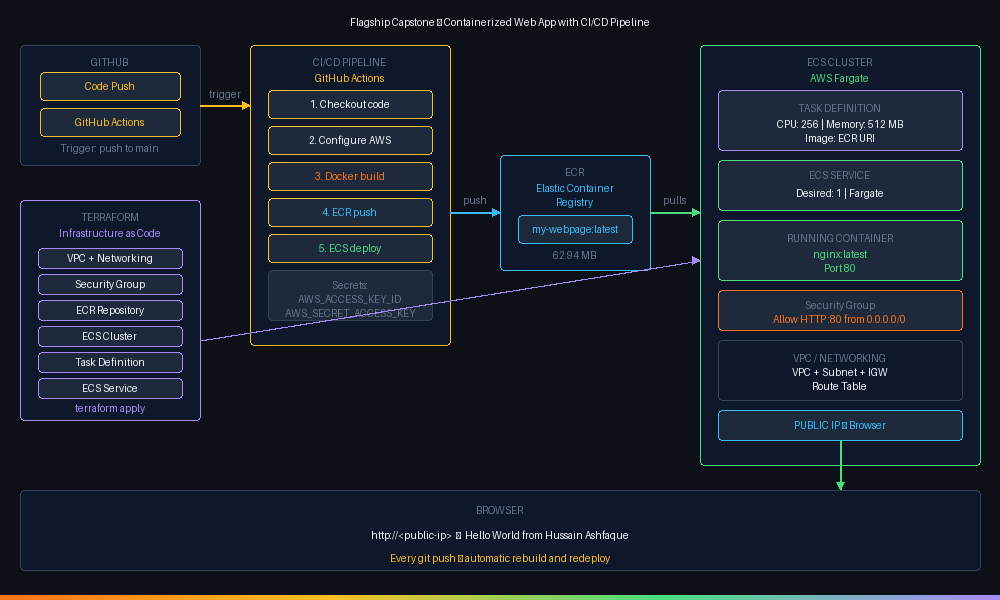
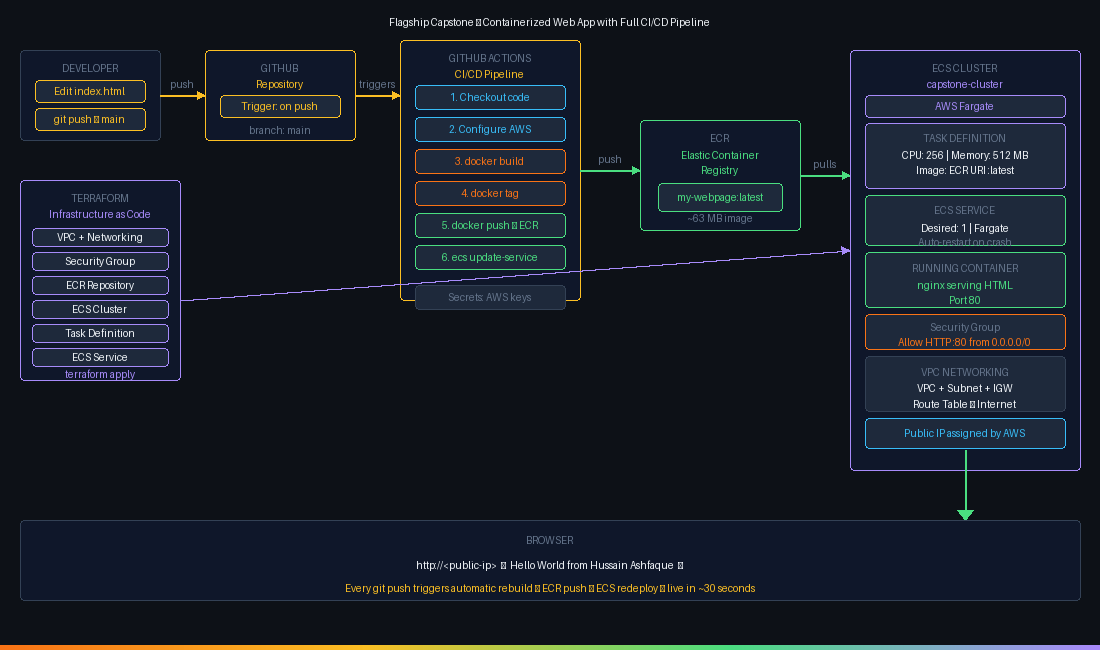
Update README and architecture diagram

diff --git a/README.md b/README.md
@@ -1,8 +1,8 @@
-# Flagship Capstone — Containerized Web App with CI/CD Pipeline
+# Flagship Capstone — Containerized Web App with Full CI/CD Pipeline
 
 ## Overview
 
-A production-style deployment pipeline combining Terraform, Docker, ECR, ECS Fargate, and GitHub Actions. Every push to the main branch automatically builds, pushes, and redeploys the containerized web app on AWS — no manual steps required.
+A production-style deployment pipeline combining Terraform, Docker, ECR, ECS Fargate, and GitHub Actions. Every push to the `main` branch automatically builds a new Docker image, pushes it to ECR, and redeploys it on AWS ECS — no manual steps required.
 
 ---
 
@@ -12,14 +12,26 @@ A production-style deployment pipeline combining Terraform, Docker, ECR, ECS Far
 
 ---
 
-## What This Project Does
+## How It Works
 
-1. Developer pushes code to GitHub
-2. GitHub Actions automatically:
-   - Builds a new Docker image
-   - Pushes it to Amazon ECR
-   - Forces ECS to redeploy with the new image
-3. The updated app is live at the public IP within minutes
+```
+Developer edits index.html
+        ↓
+git push → main
+        ↓
+GitHub Actions detects push (trigger: on push)
+        ↓
+1. Checkout code
+2. Configure AWS credentials (GitHub Secrets)
+3. docker build -t my-webpage .
+4. docker tag → ECR URI
+5. docker push → ECR
+6. aws ecs update-service --force-new-deployment
+        ↓
+ECS pulls new image from ECR
+        ↓
+Live update at http://<public-ip> in ~30 seconds
+```
 
 ---
 
@@ -27,27 +39,27 @@ A production-style deployment pipeline combining Terraform, Docker, ECR, ECS Far
 
 | Tool | Purpose |
 |---|---|
-| Terraform | Provisions all AWS infrastructure as code |
-| Docker | Packages the web app into a container |
-| Amazon ECR | Stores Docker images |
-| Amazon ECS + Fargate | Runs containers — no EC2 to manage |
-| GitHub Actions | Automates the build and deploy pipeline |
+| **Terraform** | Provisions all 12 AWS resources as code |
+| **Docker** | Packages the web app into a container |
+| **Amazon ECR** | Stores Docker images (private registry) |
+| **Amazon ECS + Fargate** | Runs containers — no EC2 to manage |
+| **GitHub Actions** | Automates build, push, and deploy on every commit |
 
 ---
 
 ## Infrastructure (Terraform)
 
-All 12 AWS resources provisioned with a single `terraform apply`:
+All AWS resources provisioned with a single `terraform apply`:
 
 ```
 VPC (10.0.0.0/16)
 ├── Internet Gateway
 ├── Public Subnet (10.0.1.0/24) — us-west-1c
-│   └── Route Table (0.0.0.0/0 → IGW)
+├── Route Table → IGW (0.0.0.0/0)
 ├── Security Group (allow HTTP :80)
+├── ECR Repository (my-webpage)
+├── IAM Execution Role (ECS → ECR access)
 └── ECS Cluster (capstone-cluster)
-    ├── ECR Repository (my-webpage)
-    ├── IAM Execution Role
     ├── Task Definition (0.25 vCPU / 512 MB)
     └── ECS Service (desired: 1, Fargate)
 ```
@@ -56,7 +68,7 @@ VPC (10.0.0.0/16)
 
 ## Application
 
-A simple nginx web server serving a custom HTML page:
+A custom nginx web server serving a personalized HTML page:
 
 ```dockerfile
 FROM nginx
@@ -67,14 +79,46 @@ COPY index.html /usr/share/nginx/html/index.html
 
 ## CI/CD Pipeline (GitHub Actions)
 
+**File:** `.github/workflows/deploy.yml`
+
 **Trigger:** Push to `main` branch
 
-**Steps:**
-1. Checkout code
-2. Configure AWS credentials (via GitHub Secrets)
-3. Build Docker image
-4. Push to ECR
-5. Force new ECS deployment
+```yaml
+name: Deploy to ECS
+
+on:
+  push:
+    branches:
+      - main
+
+jobs:
+  deploy:
+    runs-on: ubuntu-latest
+
+    env:
+      AWS_ACCESS_KEY_ID: ${{ secrets.AWS_ACCESS_KEY_ID }}
+      AWS_SECRET_ACCESS_KEY: ${{ secrets.AWS_SECRET_ACCESS_KEY }}
+      AWS_DEFAULT_REGION: us-west-1
+
+    steps:
+      - name: Checkout code
+        uses: actions/checkout@v3
+
+      - name: Login to ECR
+        run: aws ecr get-login-password --region us-west-1 | docker login --username AWS --password-stdin 513410254247.dkr.ecr.us-west-1.amazonaws.com
+
+      - name: Build Docker image
+        run: docker build -t my-webpage .
+
+      - name: Tag image
+        run: docker tag my-webpage:latest 513410254247.dkr.ecr.us-west-1.amazonaws.com/my-webpage:latest
+
+      - name: Push to ECR
+        run: docker push 513410254247.dkr.ecr.us-west-1.amazonaws.com/my-webpage:latest
+
+      - name: Deploy to ECS
+        run: aws ecs update-service --cluster capstone-cluster --service capstone-service --force-new-deployment
+```
 
 **GitHub Secrets required:**
 - `AWS_ACCESS_KEY_ID`
@@ -86,20 +130,24 @@ COPY index.html /usr/share/nginx/html/index.html
 
 ### 1. Deploy infrastructure
 ```bash
-cd terraform
 terraform init
 terraform apply
 ```
 
-### 2. Build and push initial image
-```powershell
-aws ecr get-login-password --region us-west-1 | Out-String | docker login --username AWS --password-stdin <account-id>.dkr.ecr.us-west-1.amazonaws.com
+### 2. Push initial Docker image manually
+```bash
+aws ecr get-login-password --region us-west-1 | docker login --username AWS --password-stdin <account-id>.dkr.ecr.us-west-1.amazonaws.com
 docker build -t my-webpage .
 docker tag my-webpage:latest <ecr-uri>:latest
 docker push <ecr-uri>:latest
 ```
 
-### 3. Push to GitHub — pipeline runs automatically
+### 3. Add GitHub Secrets
+Go to GitHub repo → Settings → Secrets and variables → Actions → Add:
+- `AWS_ACCESS_KEY_ID`
+- `AWS_SECRET_ACCESS_KEY`
+
+### 4. Push any change — pipeline runs automatically
 ```bash
 git add .
 git commit -m "update app"
@@ -114,14 +162,15 @@ git push origin main
 terraform destroy
 ```
 
-Deletes all 12 AWS resources.
+Destroys all 12 AWS resources cleanly. ECR repository uses `force_delete = true` to remove images automatically.
 
 ---
 
 ## Key Learnings
 
-- Terraform provisions the entire infrastructure from scratch with one command
-- ECS pulls the image from ECR — the repository must have an image before the service can start
-- GitHub Secrets securely pass AWS credentials to the pipeline without hardcoding
-- `terraform destroy` cleanly removes everything — no orphaned resources
+- Terraform provisions the entire AWS infrastructure from scratch with one command
+- ECR must have an image before ECS can start — always push manually first
+- `--force-new-deployment` tells ECS to pull the latest image and restart containers
+- GitHub Secrets securely pass AWS credentials without hardcoding them
 - The CI/CD pipeline removes all manual deployment steps — push code, it deploys itself
+- `force_delete = true` on the ECR resource prevents destroy failures when images exist
